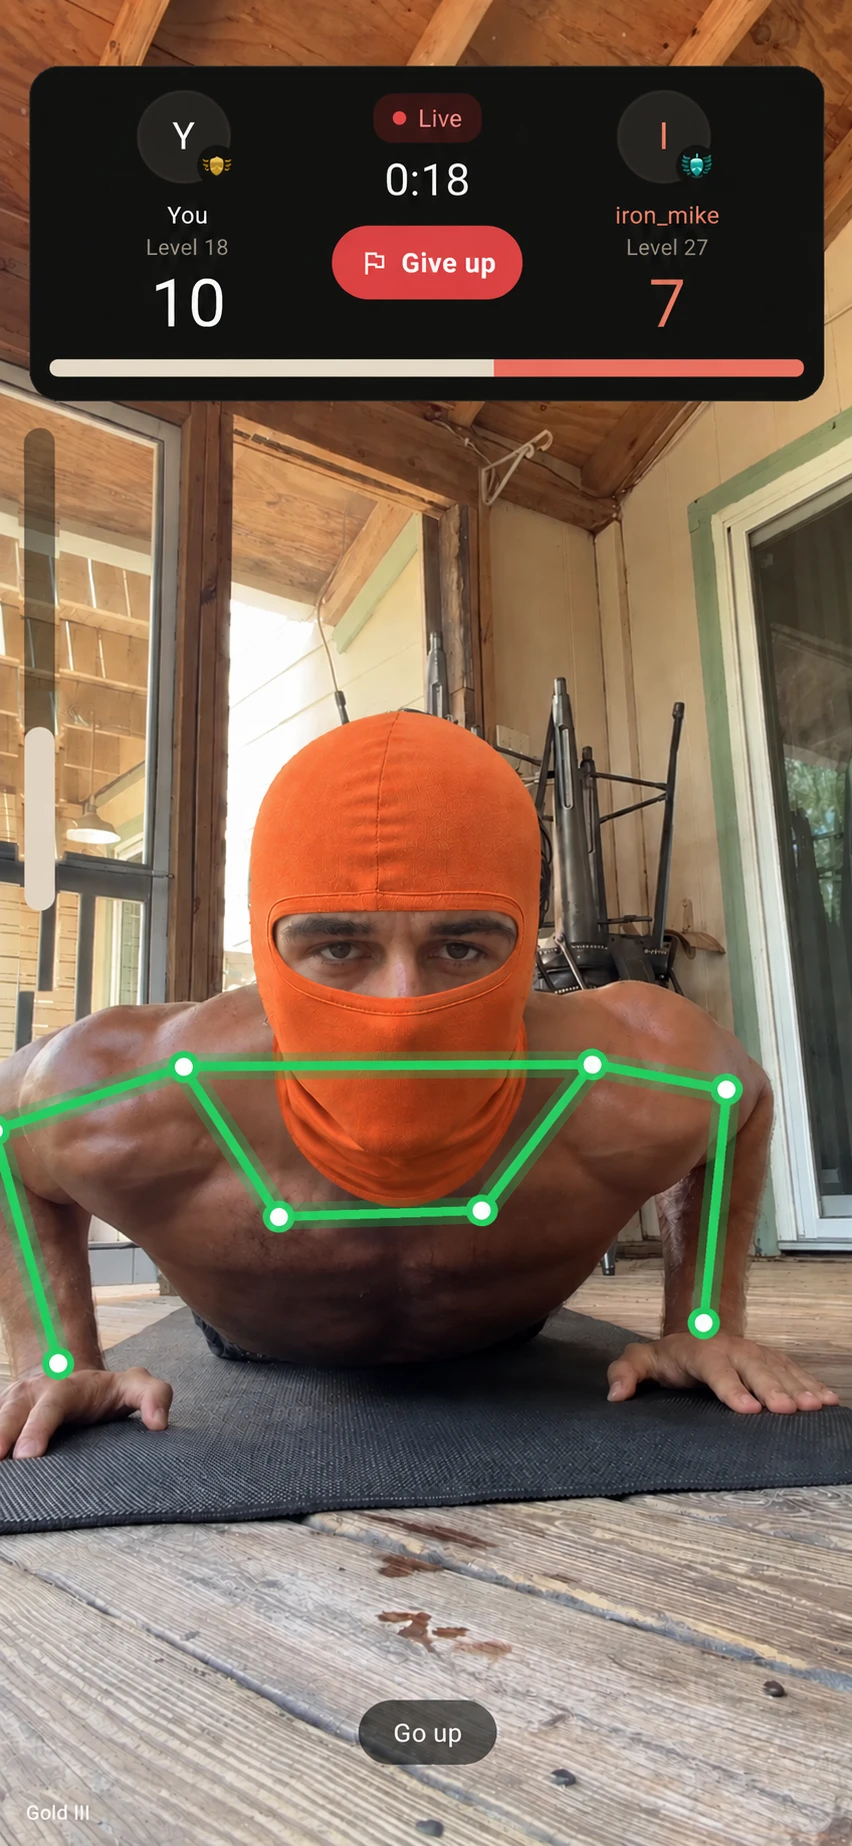
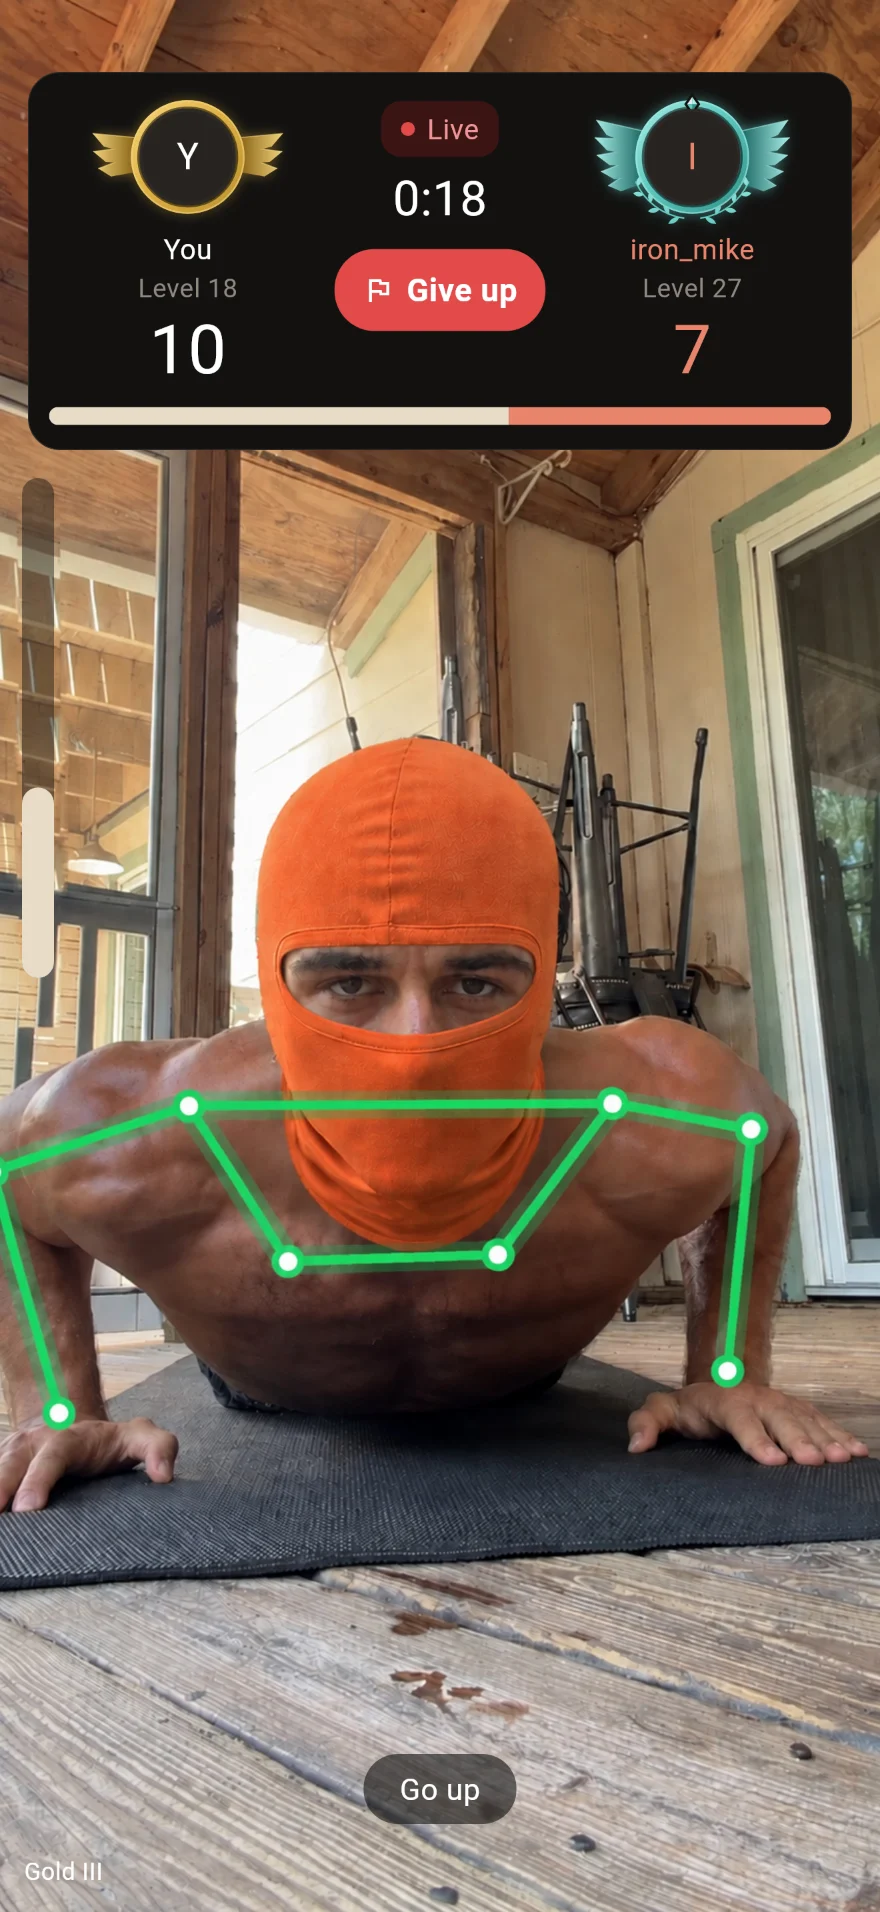
The live match on the masked photo, filling its phone to the top
The live-match picture on the home page is now the build's own screen
(store_live_match, 71124b8) over the lifter's photo in a mask, as he
took it: both lifters framed in their tier. It fills its phone whole,
under the island and down to the cue, with no status bar over the
app's card; the island is a touch smaller and higher on every phone, as
on the device. The link preview image follows.

diff --git a/index.html b/index.html
@@ -25,7 +25,7 @@
   <link rel="preconnect" href="https://fonts.googleapis.com">
   <link rel="preconnect" href="https://fonts.gstatic.com" crossorigin>
   <link href="https://fonts.googleapis.com/css2?family=Inter:wght@400;500;600;700;800&display=swap" rel="stylesheet">
-  <link rel="stylesheet" href="/landing.css?v=4">
+  <link rel="stylesheet" href="/landing.css?v=5">
 </head>
 <body>
   <header class="nav">
@@ -50,7 +50,7 @@
         </div>
         <div class="hero__art">
           <div class="streaks"></div>
-          <div class="tilt"><div class="iphone iphone--tilt iphone--bleed"><span class="iphone__button iphone__button--action"></span><span class="iphone__button iphone__button--up"></span><span class="iphone__button iphone__button--down"></span><span class="iphone__button iphone__button--power"></span><div class="iphone__band"><div class="iphone__glass"><div class="iphone__screen"><span class="iphone__island"></span><span class="iphone__status"><span>9:41</span><svg viewBox="0 0 68 12" fill="currentColor" aria-hidden="true"><rect x="0" y="8" width="3" height="4" rx="1"/><rect x="5" y="5.5" width="3" height="6.5" rx="1"/><rect x="10" y="3" width="3" height="9" rx="1"/><rect x="15" y="0.5" width="3" height="11.5" rx="1"/><path d="M30 3.2a10.5 10.5 0 0 1 13.4 0l-1.3 1.4a8.6 8.6 0 0 0 -10.8 0z M32.4 5.9a6.8 6.8 0 0 1 8.6 0l-1.4 1.4a4.8 4.8 0 0 0 -5.8 0z M34.9 8.6a3 3 0 0 1 3.6 0l-1.8 1.9z"/><rect x="47.5" y="0.5" width="17" height="11" rx="3" fill="none" stroke="currentColor" stroke-opacity="0.45"/><rect x="49.5" y="2.5" width="13" height="7" rx="1.6"/><path d="M66 4.5v3a1.6 1.6 0 0 0 0 -3z" fill-opacity="0.45"/></svg></span><img src="/assets/landing/live.webp" alt="A live OUTREPD match: the camera counting a masked lifter's push-ups, the rival's count beside it" fetchpriority="high"></div></div></div></div></div>
+          <div class="tilt"><div class="iphone iphone--tilt iphone--bleed"><span class="iphone__button iphone__button--action"></span><span class="iphone__button iphone__button--up"></span><span class="iphone__button iphone__button--down"></span><span class="iphone__button iphone__button--power"></span><div class="iphone__band"><div class="iphone__glass"><div class="iphone__screen"><span class="iphone__island"></span><span class="iphone__status"><span>9:41</span><svg viewBox="0 0 68 12" fill="currentColor" aria-hidden="true"><rect x="0" y="8" width="3" height="4" rx="1"/><rect x="5" y="5.5" width="3" height="6.5" rx="1"/><rect x="10" y="3" width="3" height="9" rx="1"/><rect x="15" y="0.5" width="3" height="11.5" rx="1"/><path d="M30 3.2a10.5 10.5 0 0 1 13.4 0l-1.3 1.4a8.6 8.6 0 0 0 -10.8 0z M32.4 5.9a6.8 6.8 0 0 1 8.6 0l-1.4 1.4a4.8 4.8 0 0 0 -5.8 0z M34.9 8.6a3 3 0 0 1 3.6 0l-1.8 1.9z"/><rect x="47.5" y="0.5" width="17" height="11" rx="3" fill="none" stroke="currentColor" stroke-opacity="0.45"/><rect x="49.5" y="2.5" width="13" height="7" rx="1.6"/><path d="M66 4.5v3a1.6 1.6 0 0 0 0 -3z" fill-opacity="0.45"/></svg></span><img src="/assets/landing/live.webp" alt="A live OUTREPD match: the camera counting a masked lifter's push-ups, both lifters framed in their tier" fetchpriority="high"></div></div></div></div></div>
           <div class="float float--lp"><span data-badge="3" data-size="54"></span><div><b>+7 LP</b><small>Gold III</small></div></div>
         </div>
       </div>

diff --git a/landing.css b/landing.css
@@ -313,10 +313,10 @@ h1 span {
 .iphone__island {
   position: absolute;
   z-index: 2;
-  top: 3.6em;
+  top: 2.6em;
   left: 50%;
-  width: 30em;
-  height: 8.6em;
+  width: 28em;
+  height: 7.8em;
   transform: translateX(-50%);
   border-radius: 99em;
   background: #000;
@@ -986,13 +986,21 @@ section[id] {
 
 /* The camera screen keeps the island clear too, its picture cropped from
    the top and bottom alike. */
+/* A camera screen fills the glass to its very top, under the island, and
+   whole: its picture is the screen's own shape, so nothing is cropped.
+   No status bar over it: the app's own card is up there. */
 .iphone--bleed .iphone__screen {
+  padding-top: 0;
   background: #000;
 }
 
 .iphone--bleed .iphone__screen img {
   object-fit: cover;
-  object-position: center 40%;
+  object-position: center top;
+}
+
+.iphone--bleed .iphone__status {
+  display: none;
 }
 
 .iphone__status {

diff --git a/404.html b/404.html
@@ -11,7 +11,7 @@
   <link href="https://fonts.googleapis.com/css2?family=Inter:wght@400;500;600;700;800&display=swap" rel="stylesheet">
 
   <link rel="icon" type="image/png" href="/assets/favicon.png">
-  <link rel="stylesheet" href="/landing.css?v=4">
+  <link rel="stylesheet" href="/landing.css?v=5">
   <link rel="stylesheet" href="/pages.css?v=2">
   <script>
     // GitHub Pages has no server-side routing: an unknown path like

diff --git a/u/index.html b/u/index.html
@@ -22,7 +22,7 @@
   <link rel="icon" type="image/png" href="/assets/favicon.png">
   <link rel="apple-touch-icon" href="/assets/favicon.png">
 
-  <link rel="stylesheet" href="/landing.css?v=4">
+  <link rel="stylesheet" href="/landing.css?v=5">
   <link rel="stylesheet" href="/pages.css?v=2">
   <link rel="stylesheet" href="/u/card.css?v=4">
 </head>

diff --git a/contact/index.html b/contact/index.html
@@ -16,7 +16,7 @@
   <link rel="icon" type="image/png" href="/assets/favicon.png">
   <link rel="apple-touch-icon" href="/assets/favicon.png">
 
-  <link rel="stylesheet" href="/landing.css?v=4">
+  <link rel="stylesheet" href="/landing.css?v=5">
   <link rel="stylesheet" href="/pages.css?v=2">
 </head>
 <body>

diff --git a/privacy/index.html b/privacy/index.html
@@ -16,7 +16,7 @@
   <link rel="icon" type="image/png" href="/assets/favicon.png">
   <link rel="apple-touch-icon" href="/assets/favicon.png">
 
-  <link rel="stylesheet" href="/landing.css?v=4">
+  <link rel="stylesheet" href="/landing.css?v=5">
   <link rel="stylesheet" href="/pages.css?v=2">
 </head>
 <body>

diff --git a/terms/index.html b/terms/index.html
@@ -16,7 +16,7 @@
   <link rel="icon" type="image/png" href="/assets/favicon.png">
   <link rel="apple-touch-icon" href="/assets/favicon.png">
 
-  <link rel="stylesheet" href="/landing.css?v=4">
+  <link rel="stylesheet" href="/landing.css?v=5">
   <link rel="stylesheet" href="/pages.css?v=2">
 </head>
 <body>
